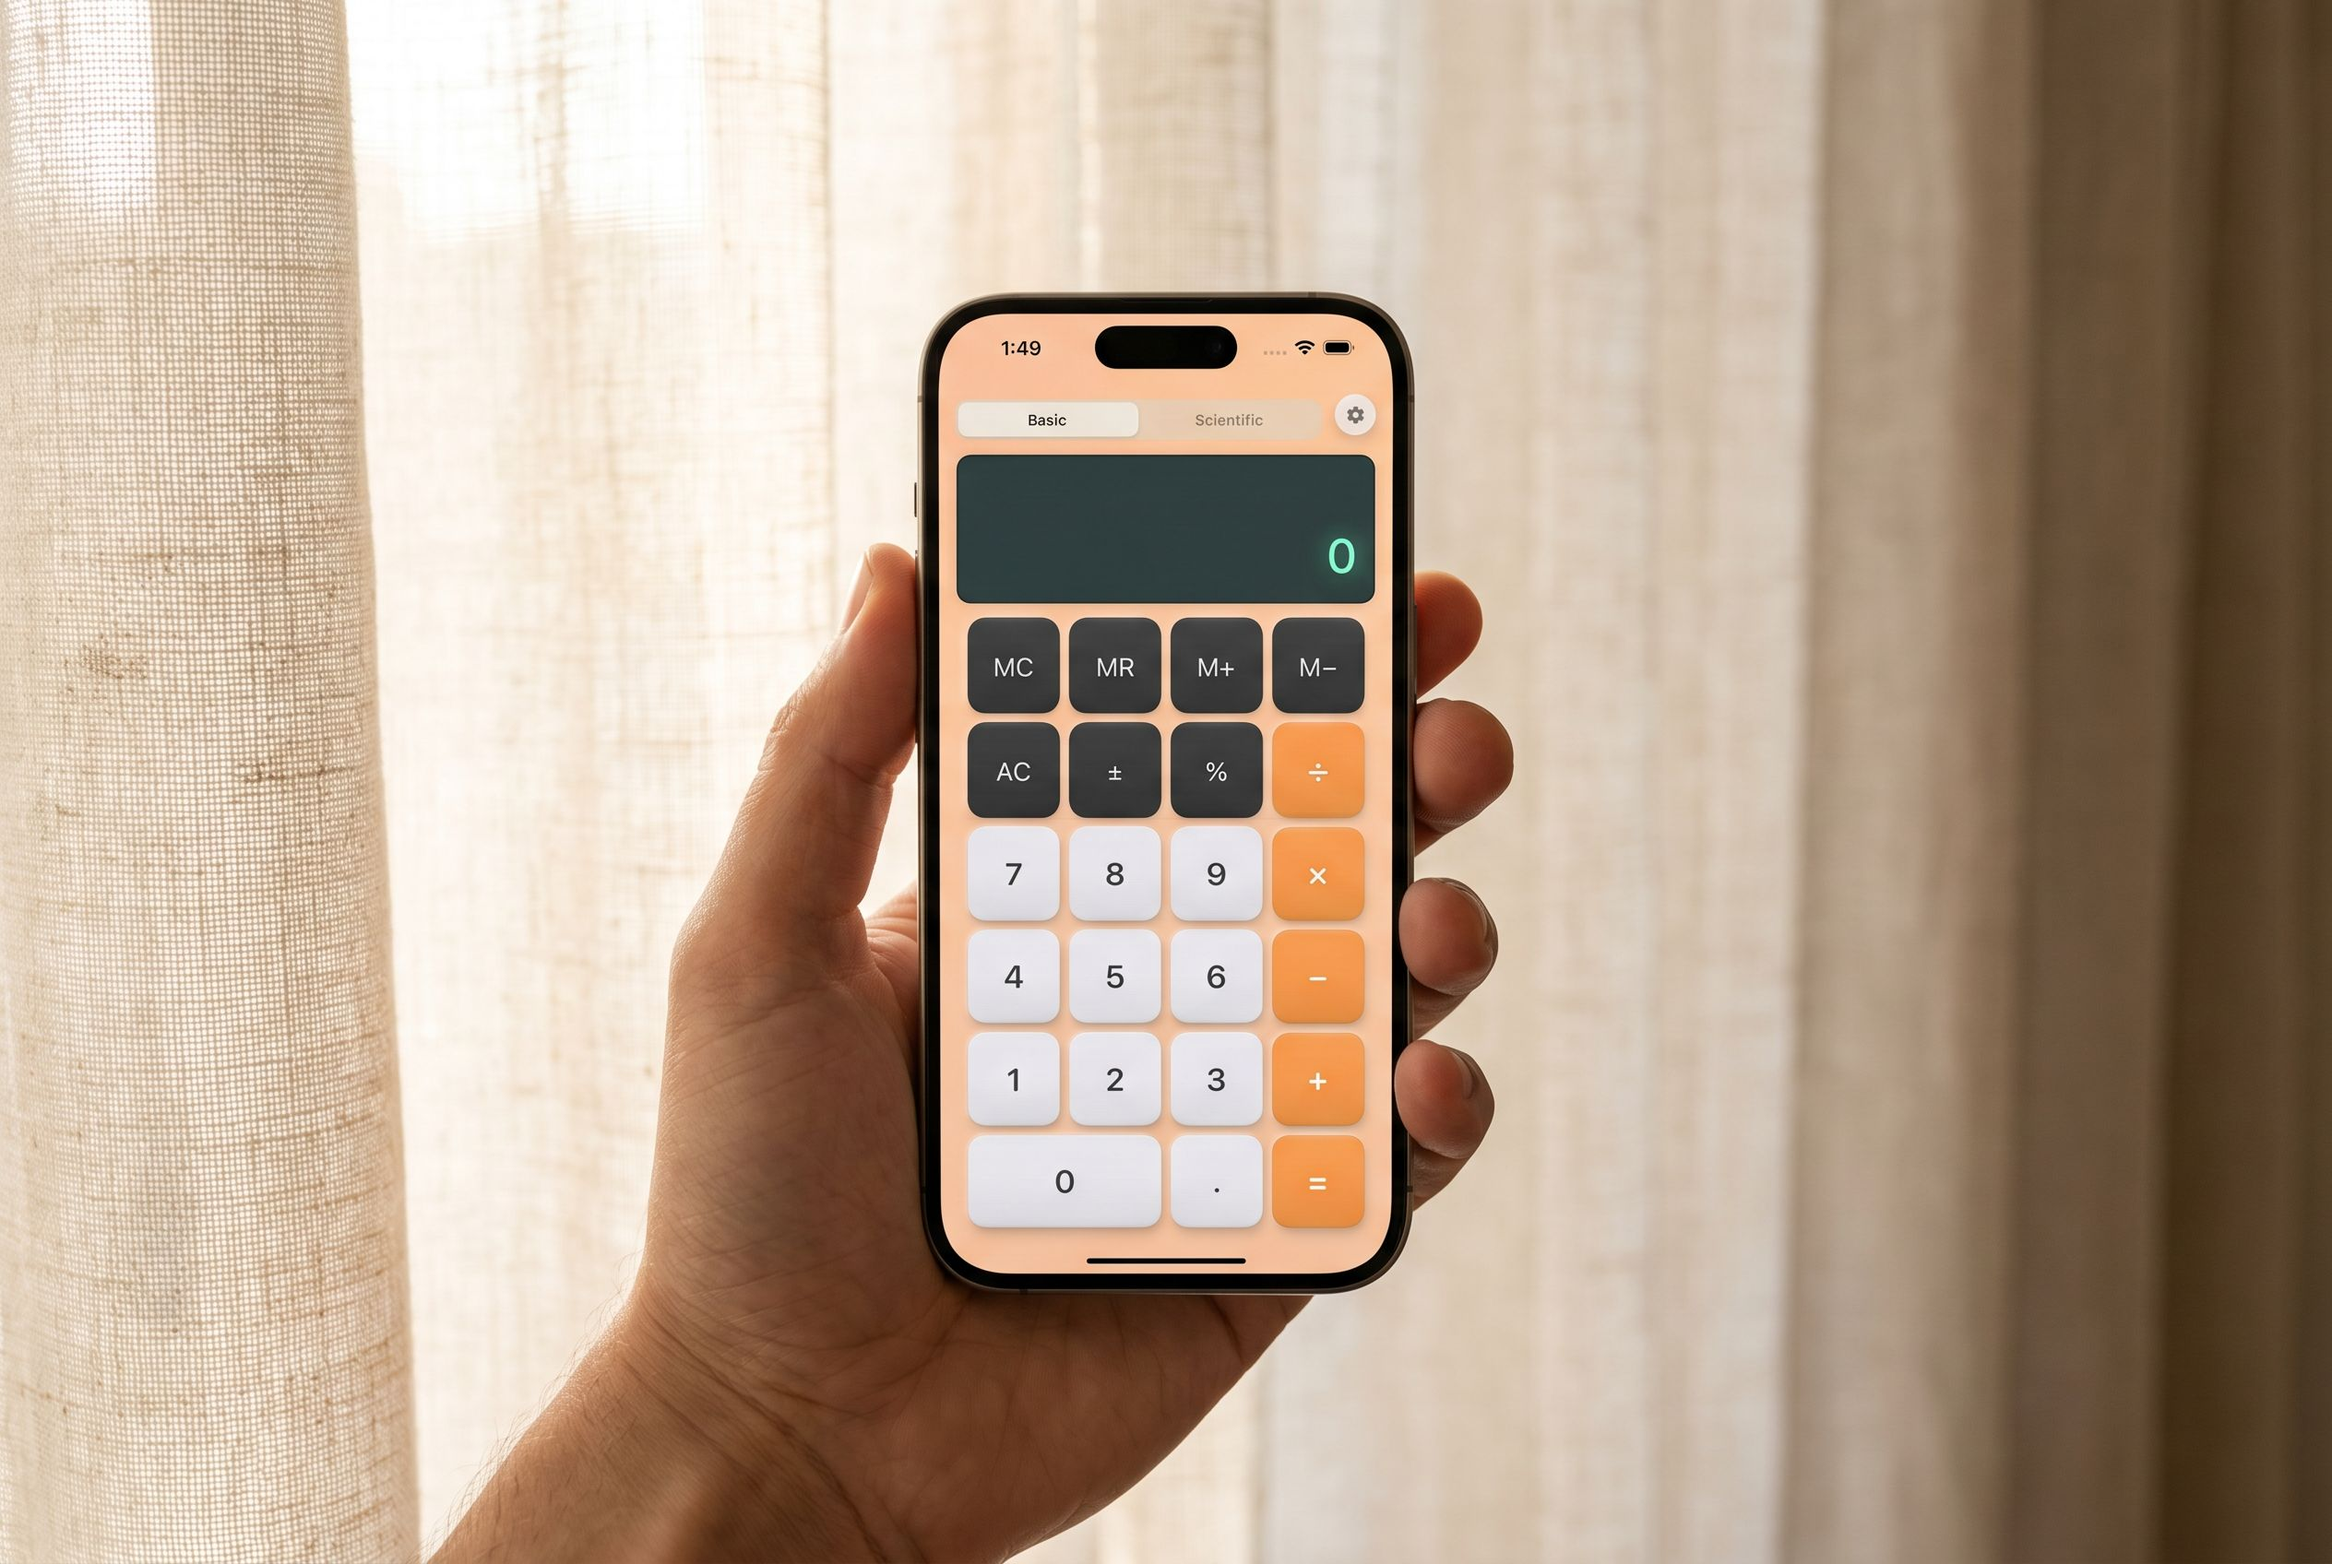
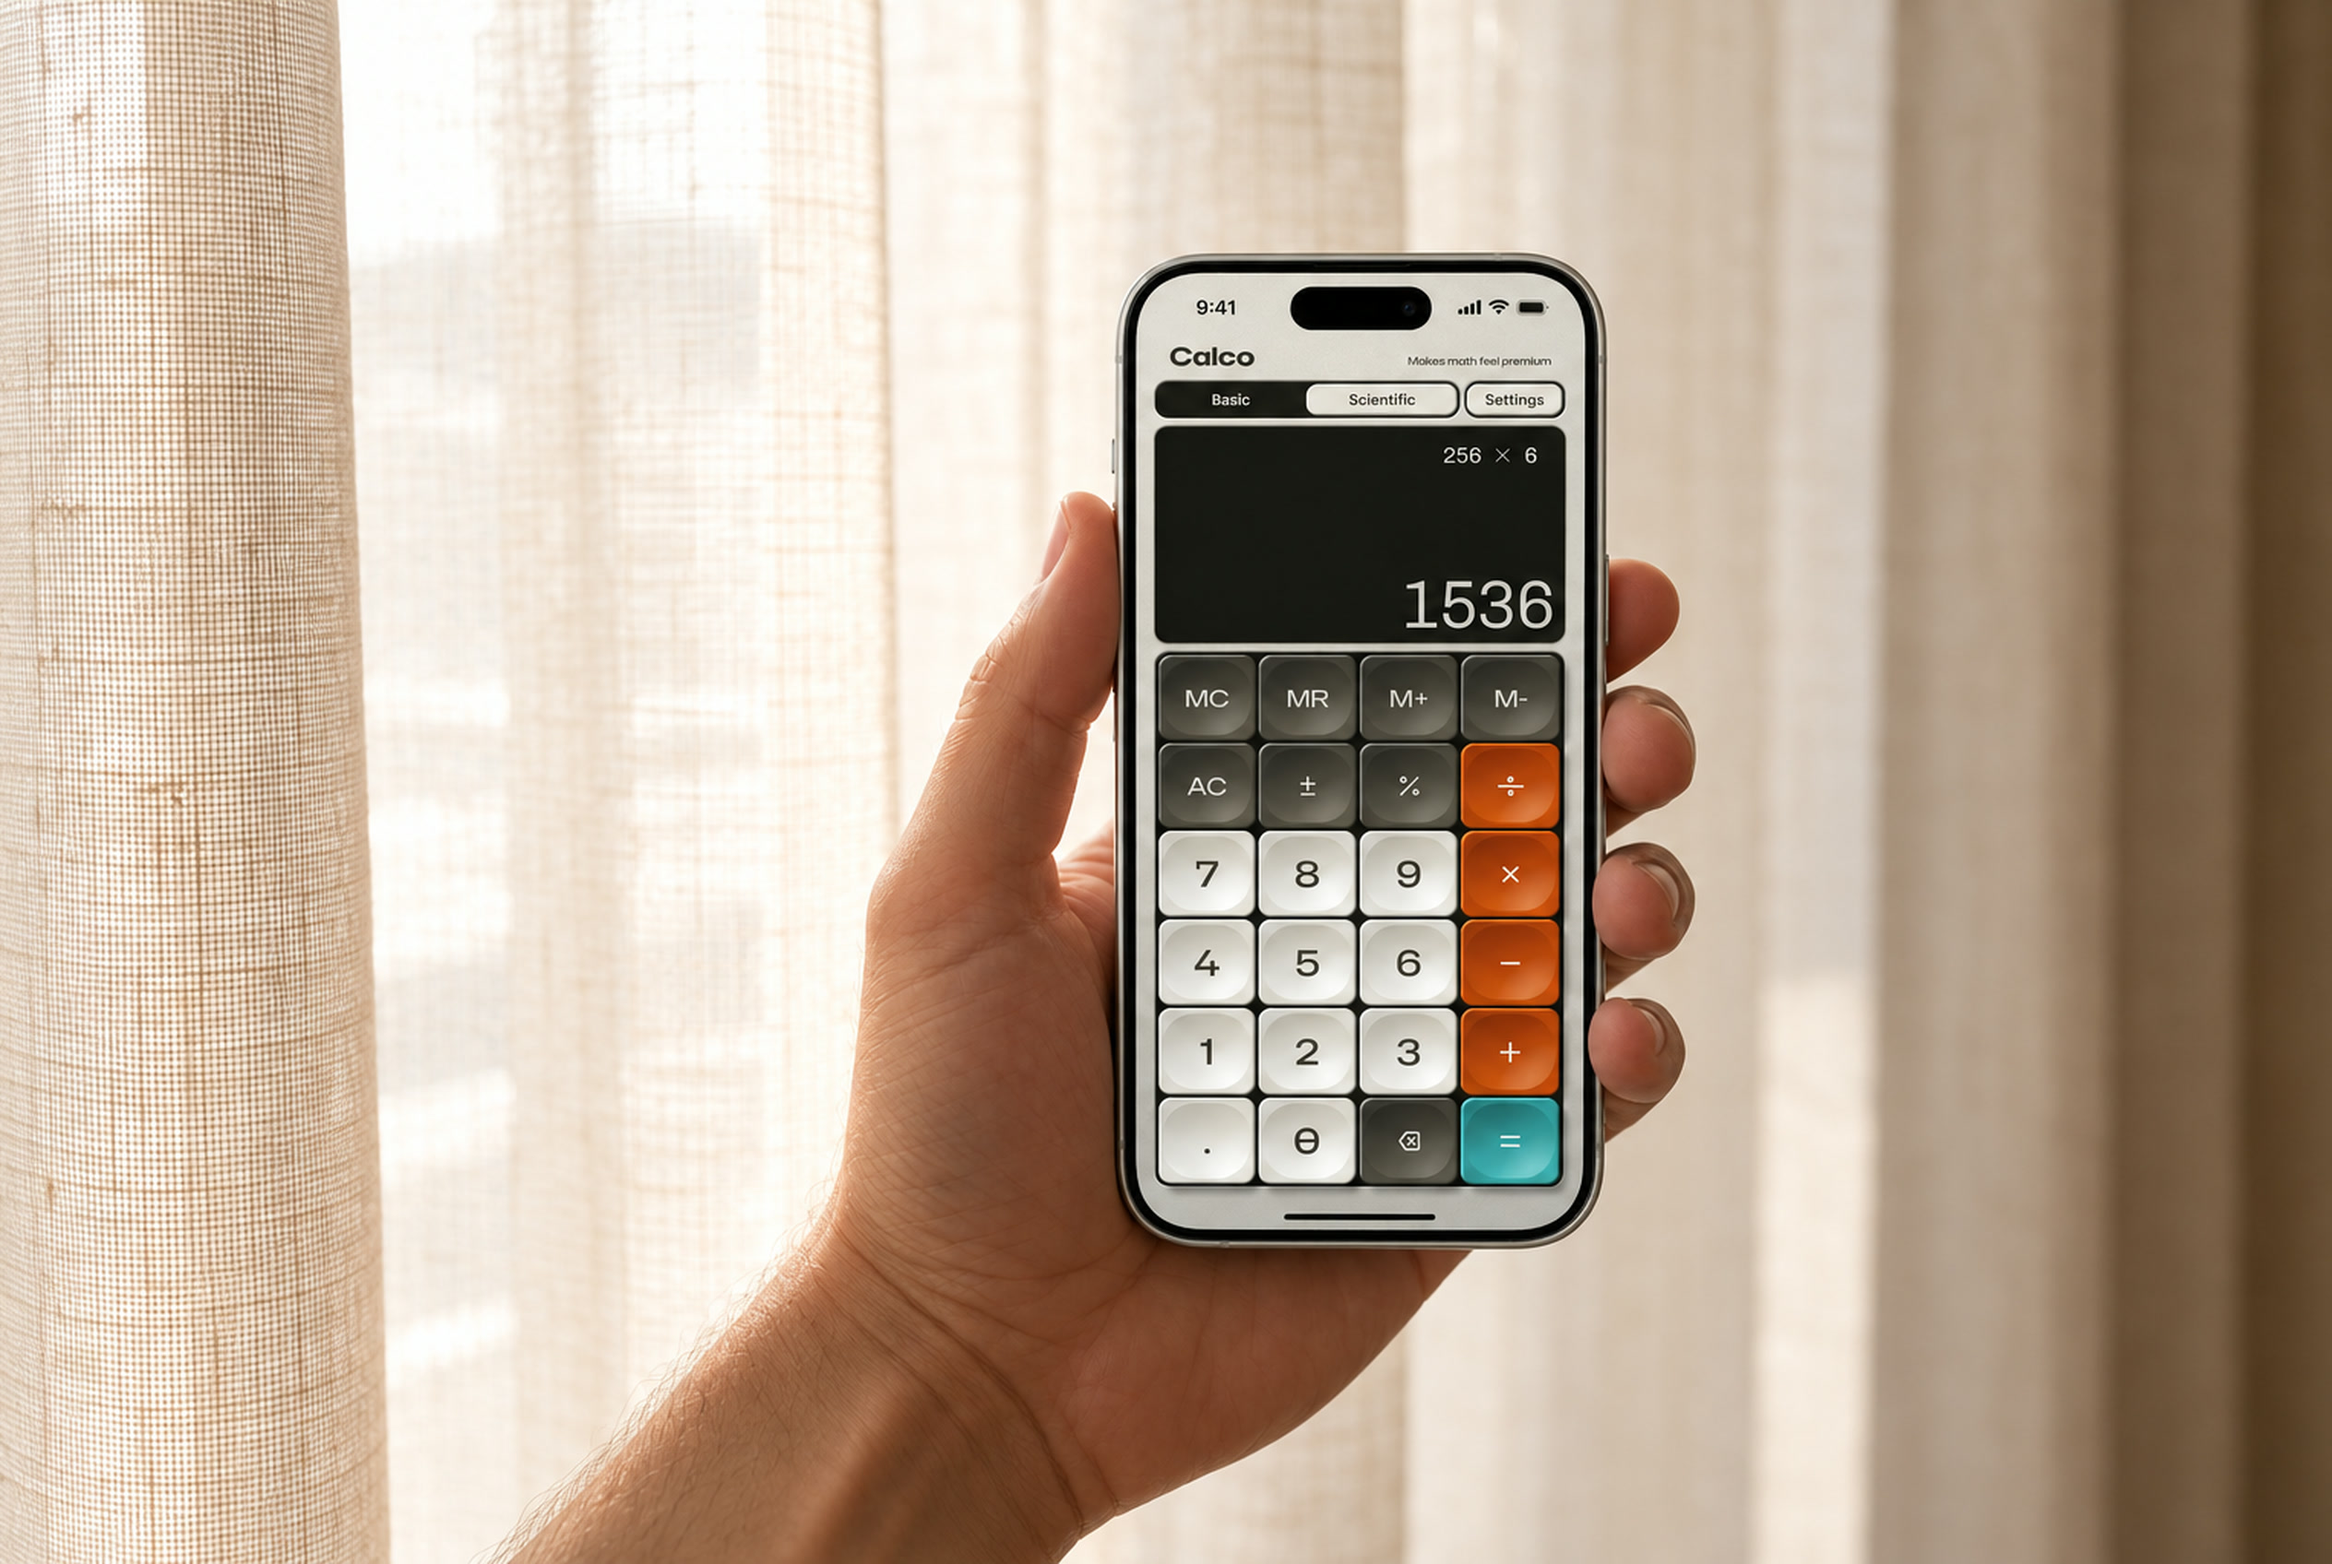
Refresh calculator imagery for new app design

diff --git a/images/screens/README.md b/images/screens/README.md
@@ -1,0 +1,16 @@
+# Calco app screens
+
+Exact 3x PNG exports from the Figma handoff (`402 x 874` source frames, exported at `1206 x 2622`).
+
+- `basic-*`
+- `scientific-*`
+- `settings-*`
+- `currency-*`
+- `units-*`
+- `tvm-*`
+- `percentage-*`
+- `date-input-*`
+- `date-result-*`
+- `graph-*`
+
+Each screen is provided in light and dark mode.
